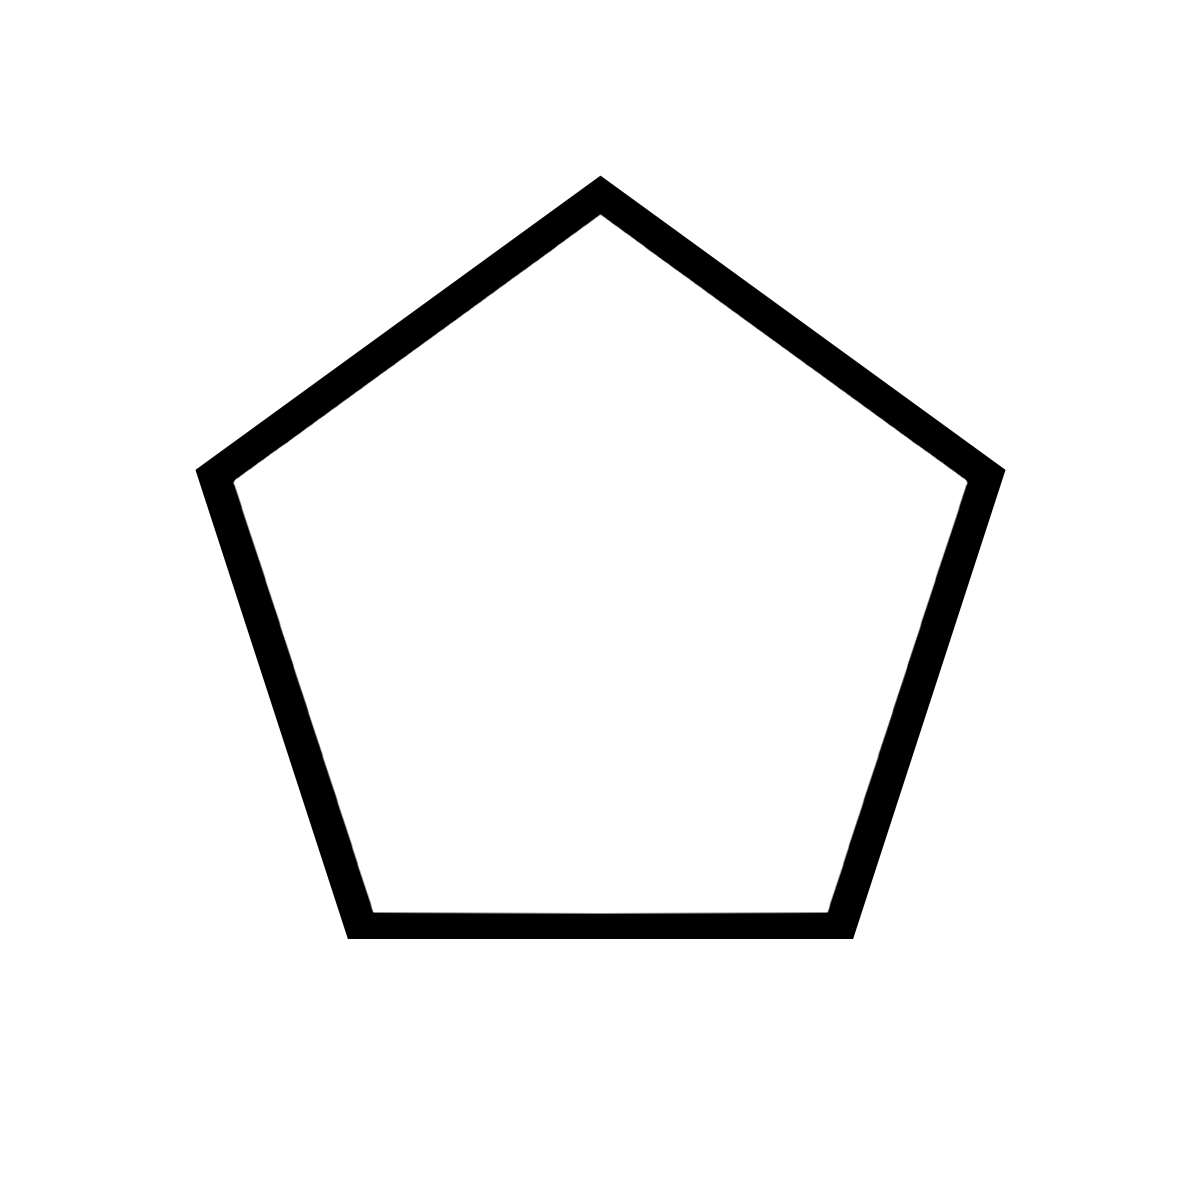
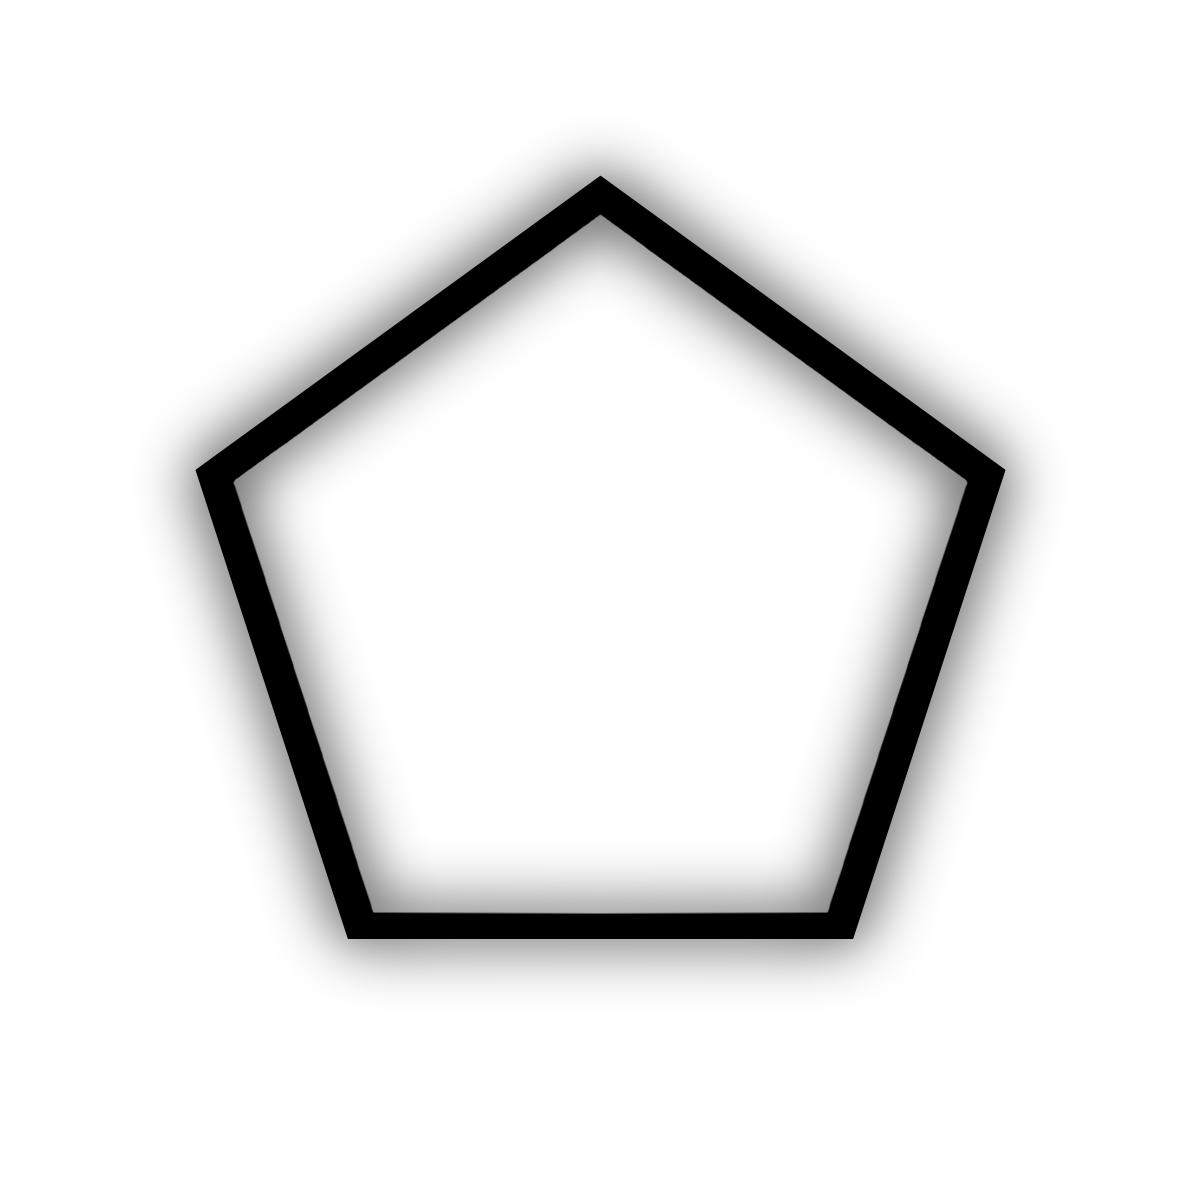
리소스 최적화, GPU 스레드 최적화, 장애물 도형 음향 효과 제거

Changed region(s): [[0.1233, 0.1233, 0.8633, 0.8325]]

diff --git a/mata_SDK/ObstacleShape.cpp b/mata_SDK/ObstacleShape.cpp
@@ -166,25 +166,16 @@ void ObstacleShape::RenderFunc() {
 	case ObTriangle:
 		transform.Scale(ScaleMatrix, CurrentSize + 0.3, CurrentSize + 0.3);
 		RenderSprite(Sprite.Triangle[ShapeIndex], Opacity);
-		RenderSprite(Sprite.TriangleLight[ShapeIndex], Opacity * 0.6);
-		if(Global.UseMusicEffect)
-			RenderSprite(Sprite.TriangleLight[ShapeIndex], Global.BeatDetectValue * Opacity * 0.6);
 		break;
 
 	case ObSquare:
 		transform.Scale(ScaleMatrix, CurrentSize + 0.15, CurrentSize + 0.15);
 		RenderSprite(Sprite.Square[ShapeIndex], Opacity);
-		RenderSprite(Sprite.SquareLight[ShapeIndex], Opacity * 0.6);
-		if (Global.UseMusicEffect)
-			RenderSprite(Sprite.SquareLight[ShapeIndex], Global.BeatDetectValue * Opacity * 0.6);
 		break;
 
 	case ObPentagon:
 		transform.Scale(ScaleMatrix, CurrentSize + 0.1, CurrentSize + 0.1);
 		RenderSprite(Sprite.Pentagon[ShapeIndex], Opacity);
-		RenderSprite(Sprite.PentagonLight[ShapeIndex], Opacity * 0.6);
-		if (Global.UseMusicEffect)
-			RenderSprite(Sprite.PentagonLight[ShapeIndex], Global.BeatDetectValue * Opacity * 0.6);
 		break;
 	}
 }

diff --git a/mata_SDK/ResourceLoader.cpp b/mata_SDK/ResourceLoader.cpp
@@ -27,27 +27,6 @@ DWORD WINAPI ResourceLoader(LPVOID Param) {
 		imageUtil.PreLoad(Sprite.Pentagon[i], FileName);
 	}
 
-	for (int i = 0; i < 3; ++i) {
-		std::string FileName = "Assets//Image//Shapes//Triangle//obstacle_triangle_light_";
-		FileName += std::to_string(i + 1);
-		FileName += ".png";
-		imageUtil.PreLoad(Sprite.TriangleLight[i], FileName);
-	}
-
-	for (int i = 0; i < 5; ++i) {
-		std::string FileName = "Assets//Image//Shapes//Square//obstacle_square_light_";
-		FileName += std::to_string(i + 1);
-		FileName += ".png";
-		imageUtil.PreLoad(Sprite.SquareLight[i], FileName);
-	}
-
-	for (int i = 0; i < 5; ++i) {
-		std::string FileName = "Assets//Image//Shapes//Pentagon//obstacle_pentagon_light_";
-		FileName += std::to_string(i + 1);
-		FileName += ".png";
-		imageUtil.PreLoad(Sprite.PentagonLight[i], FileName);
-	}
-
 	// user data load
 	Global.UserSettingData.Load("GameData//UserSetting", Format.UsetSettingDataFormat);
 	Global.FullscreenMode = Global.UserSettingData.LoadDigitData("Option", "FullscreenMode");

diff --git a/mata_SDK/ED.cpp b/mata_SDK/ED.cpp
@@ -48,6 +48,8 @@ void ClassED::UpdateFunc(float FrameTime) {
 		mathUtil.UpdateLerp(MovePosition.y, 0.0, 10.0, FrameTime * Global.PlaySpeed);
 
 		CamRotation = CameraControl->GetRotation();
+		if (CamRotation > 360.0 || CamRotation < -360.0)
+			CamRotation = 0.0;
 		MusicEffectValue = Global.BeatDetectValue * 0.05;
 
 		if (Global.GameOverState) 
@@ -83,7 +85,6 @@ void ClassED::RenderFunc() {
 
 		// Machine Light
 		BeginRender(RENDER_TYPE_STATIC);
-		RenderSprite(Sprite.MachineLight, 1.0, true);
 		RenderSprite(Sprite.MachineLight, Global.BeatDetectValue, true);
 	}
 }

diff --git a/mata_SDK/ColorChanger.h b/mata_SDK/ColorChanger.h
@@ -4,16 +4,16 @@
 class ColorChanger : public GameObject {
 private:
 	glm::vec3 BackgroundColor[5]{
-		{0.07, 0.46, 0.96},
-		{0.38, 0.38, 0.00},
+		{0.02, 0.24, 0.41},
+		{0.40, 0.02, 0.26},
 		{0.38, 0.07, 0.00},
 		{0.08, 0.11, 0.04},
 		{0.22, 0.22, 0.22},
 	};
 
 	glm::vec3 ObjectColor[5]{
-		{0.85, 0.92, 0.92},
-		{0.95, 0.98, 0.06},
+		{0.18, 0.63, 0.90},
+		{0.78, 0.14, 0.56},
 		{0.96, 0.28, 0.07},
 		{0.51, 0.75, 0.26},
 		{1.0, 1.0, 1.0}

diff --git a/mata_SDK/ComputeUtil.cpp b/mata_SDK/ComputeUtil.cpp
@@ -11,7 +11,7 @@ void ComputeUtil::ComputeMatrix(glm::mat4& Dest, glm::mat4& Matrix1, glm::mat4& 
 	glBufferSubData(GL_SHADER_STORAGE_BUFFER, sizeof(glm::mat4) * 4, sizeof(glm::mat4), glm::value_ptr(Matrix5));
 
 	glUseProgram(MATRIX_COMPT_SHADER);
-	glDispatchCompute(4, 4, 1);
+	glDispatchCompute(32, 1, 1);
 	glMemoryBarrier(GL_SHADER_STORAGE_BARRIER_BIT);
 
 	glBindBuffer(GL_SHADER_STORAGE_BUFFER, SSBO_MATRIX_OUTPUT);

diff --git a/mata_SDK/PlayerShape.cpp b/mata_SDK/PlayerShape.cpp
@@ -96,7 +96,6 @@ void PlayerShape::RenderFunc() {
 	transform.Rotate(RotateMatrix, ShapeRotation);
 	transform.Scale(ScaleMatrix, ShapeSize, ShapeSize);
 	RenderSprite(Sprite.ImagePlayerShape[CurrentShape], Opacity);
-	RenderSprite(Sprite.ImagePlayerShapeLight[CurrentShape], Opacity);
 
 	if (Global.UseMusicEffect)
 		RenderSprite(Sprite.ImagePlayerShapeLight[CurrentShape], Global.BeatDetectValue * Opacity);

diff --git a/mata_SDK/MathUtil.cpp b/mata_SDK/MathUtil.cpp
@@ -49,6 +49,11 @@ GLfloat MathUtil::Lerp(GLfloat Value, GLfloat Dest, GLfloat Speed, float FrameTi
 }
 
 void MathUtil::UpdateLerp(GLfloat& DestValue, GLfloat Dest, GLfloat Speed, float FrameTime) {
+	if (abs(DestValue - Dest) < 0.0001) {
+		DestValue = Dest;
+		return;
+	}
+
 	GLfloat t = Speed * FrameTime;
 	EX.ClampValue(t, 1.0, CLAMP_GREATER);
 	DestValue = std::lerp(DestValue, Dest, t);

diff --git a/mata_SDK/CameraController.cpp b/mata_SDK/CameraController.cpp
@@ -27,6 +27,8 @@ void CameraController::UpdateFunc(float FT){
 			mathUtil.UpdateLerp(ZoomValue, 1.0, 10.0, FT * Global.PlaySpeed);
 			ChangeCameraZoom(ZoomValue);
 			Rotation += Global.CameraRotateSpeed * RotateDirection * FT * Global.PlaySpeed;
+			if (Rotation > 360.0 || Rotation < -360.0)
+				Rotation = 0.0;
 		}
 	}
 

diff --git a/mata_SDK/GameResource.h b/mata_SDK/GameResource.h
@@ -11,9 +11,6 @@ public:
 	Image Triangle[3]{};
 	Image Square[5]{};
 	Image Pentagon[5]{};
-	Image TriangleLight[3]{};
-	Image SquareLight[5]{};
-	Image PentagonLight[5]{};
 
 	Image ImagePlayerShape[3]{};
 	Image ImagePlayerShapeLight[3]{};
